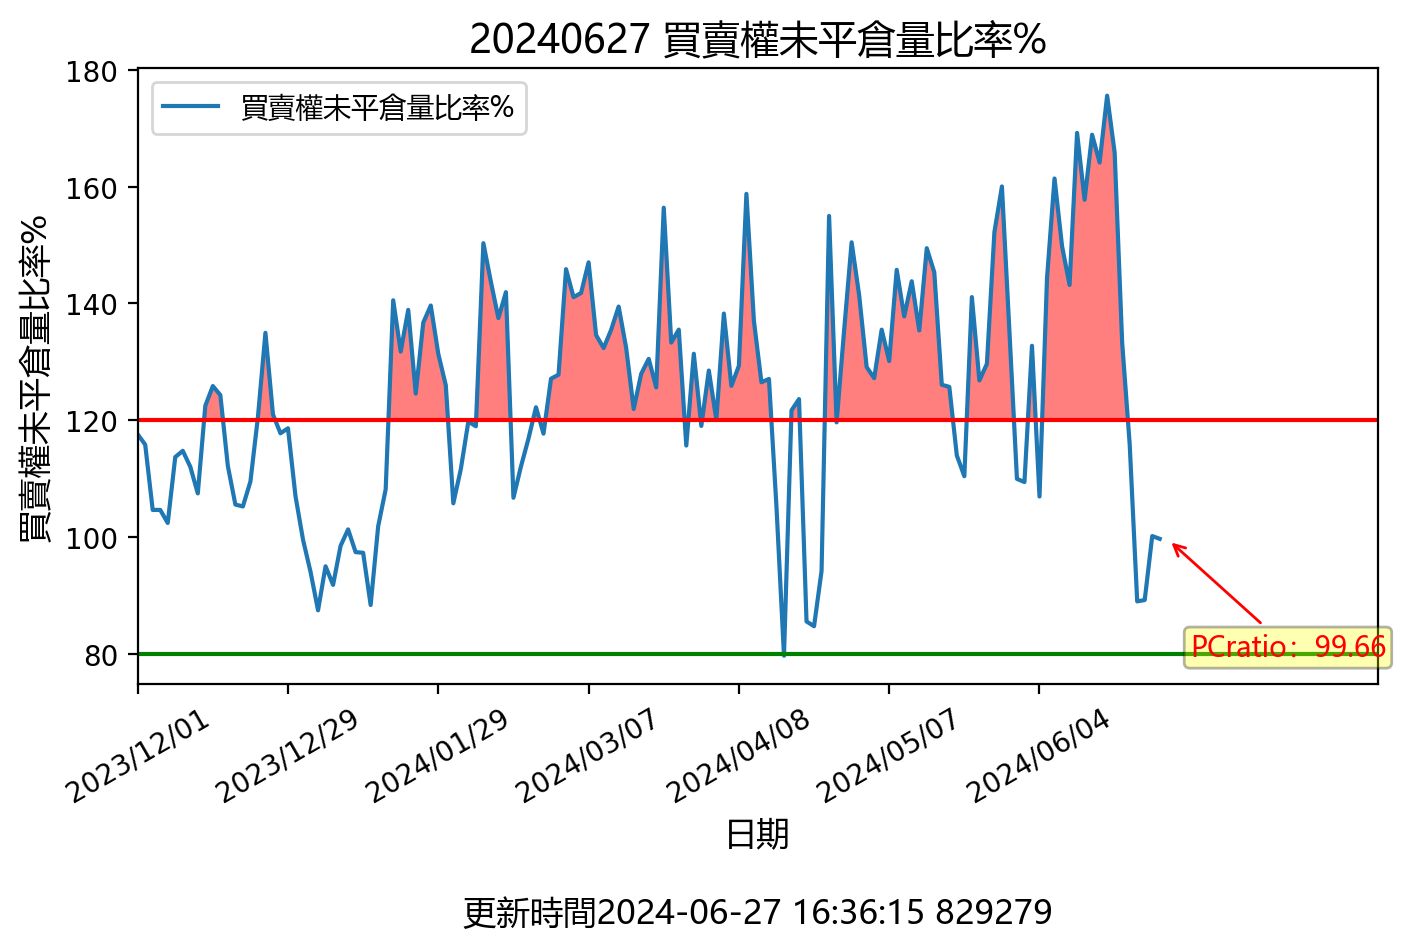
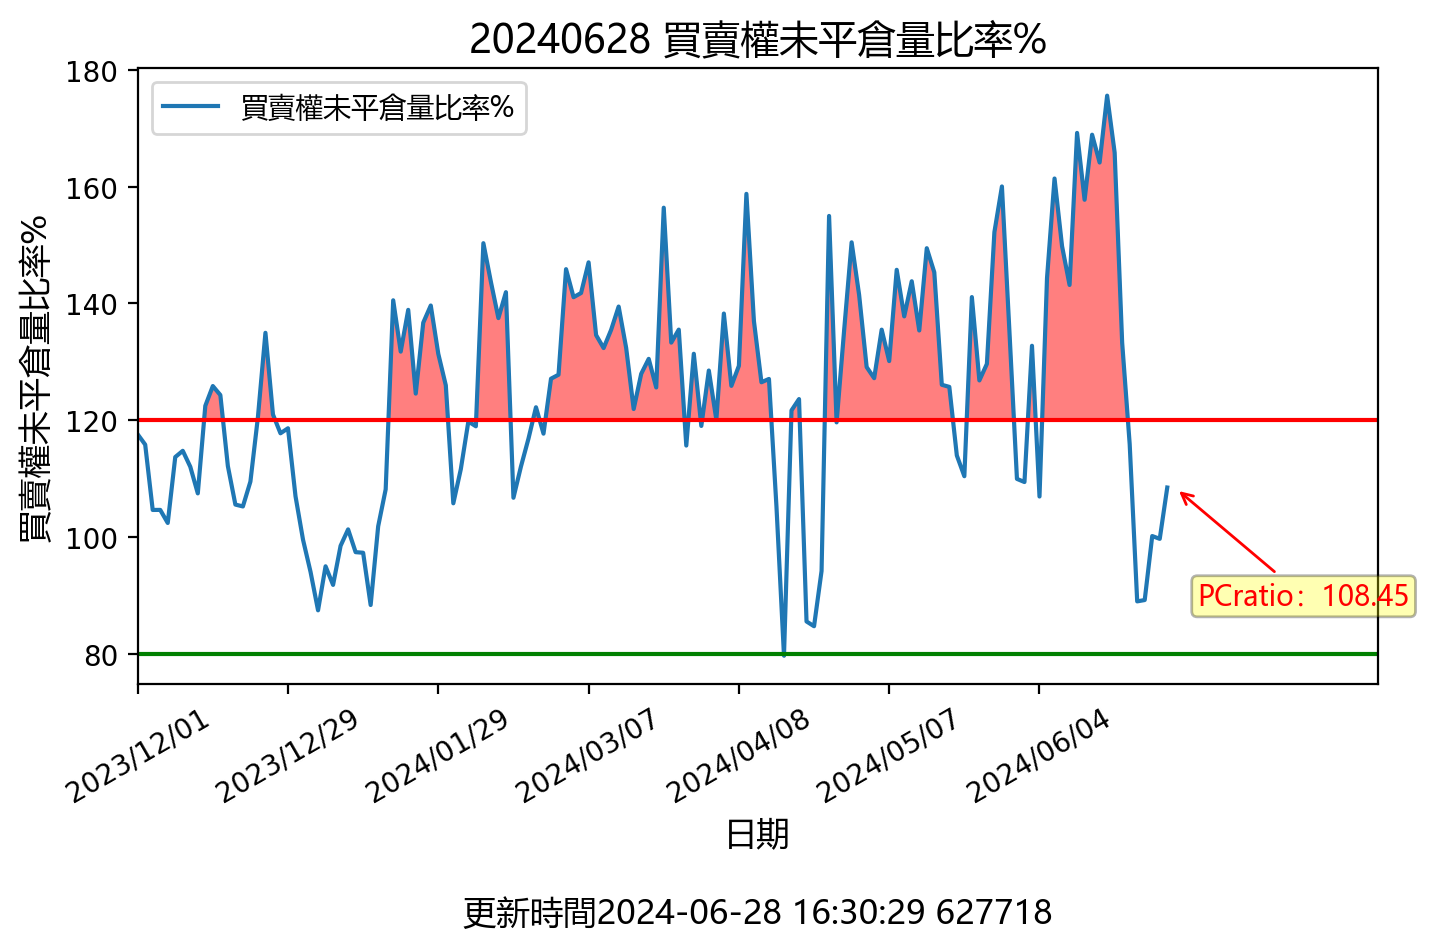
更新時間: Fri Jun 28 16:30:40 CST 2024

diff --git a/README.md b/README.md
@@ -1,9 +1,9 @@
-## 20240627 台指期「預估換倉成本」
+## 20240628 台指期「預估換倉成本」
 ![](txfcost.png)
 
-## 20240627 台指期「散戶小台多空比」
+## 20240628 台指期「散戶小台多空比」
 ![](bbiri.png)
 
-## 20240627 台指選擇權「Put/Call Ratios」
+## 20240628 台指選擇權「Put/Call Ratios」
 ![](pcratio.png)
 
